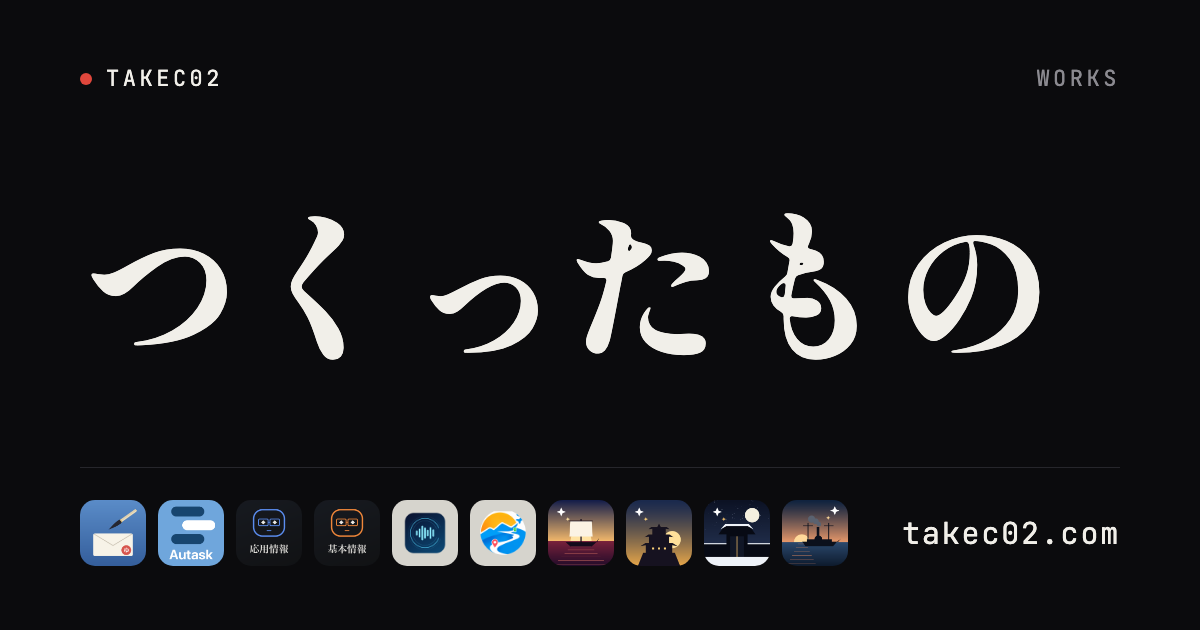
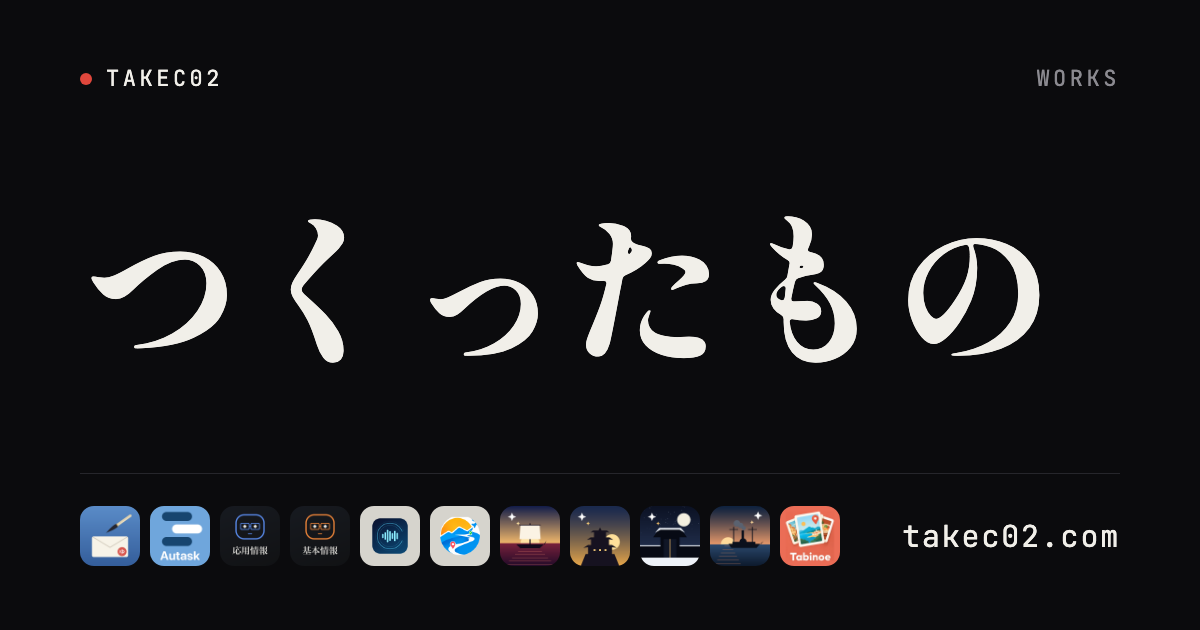
タビノエを準備中で載せる（シェア画像にアイコンを足し、11個に合わせて小さく）

diff --git a/index.html b/index.html
@@ -166,6 +166,17 @@
       </div>
     </article>
 
+    <article class="card" data-status="soon" style="--g:linear-gradient(160deg,#f7b9a6 0%,#e96b5b 55%,#c44a3c 100%);--num:rgba(255,255,255,.75)">
+      <div class="card-top">
+        <img class="icon" src="icons/tabinoe.png" alt="" loading="lazy">
+      </div>
+      <div class="card-body">
+        <h2>タビノエ</h2>
+        <p>旅の写真から、行った場所もあの味も、ぜんぶ思い出せる記録をつくる。</p>
+        <p class="meta">iPhone　公開予定</p>
+      </div>
+    </article>
+
   </section>
 
   <footer class="footer">
